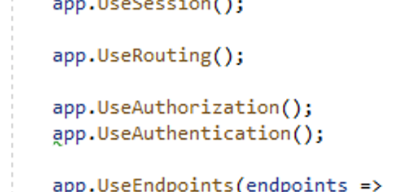
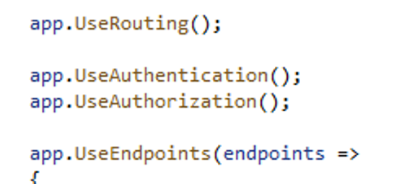
updates

diff --git a/Hands-on lab/HOL step-by-step - Modern cloud apps.md b/Hands-on lab/HOL step-by-step - Modern cloud apps.md
@@ -1234,18 +1234,19 @@ To enable profile editing on your application, you will need to create a profile
 
     ```
     using Microsoft.AspNetCore.Authentication;
+    using Microsoft.AspNetCore.Authentication.AzureADB2C.UI;
     ```
 
 3. Locate the `app.UseAuthentication();` line within the `public void Configure` method, and add the following line of code after it:
 
     ```
     app.UseAuthentication();
+    app.UseAuthorization();
     ```
 
     The result will look similar to the following:
 
     ![app.UseAuthentication code inserted](media/2020-03-18-14-44-13.png "app.UseAuthentication code inserted")
-    
 
 3. Locate the Azure AD B2C name by navigating to your resource group. Copy the name to Notepad.
 
@@ -1280,10 +1281,10 @@ Your app is now properly configured to communicate with Azure AD B2C by using AS
 3. Add the following using statement to the top of the controller:
 
     ```csharp
-    using Microsoft.AspNetCore.Mvc;
     using Microsoft.AspNetCore.Authentication;
+    using Microsoft.AspNetCore.Authentication.AzureADB2C.UI;
+    using Microsoft.AspNetCore.Mvc;
     using Microsoft.Extensions.Configuration;
-    using System.Threading.Tasks;
     ```
 
 4. Locate the default controller **Index** method.
@@ -1348,13 +1349,7 @@ Your app is now properly configured to communicate with Azure AD B2C by using AS
     }
     ```
 
-5. Add the following `using` statement to the top of the file:
-
-    ```csharp
-    using Microsoft.AspNetCore.Authentication.AzureADB2C.UI;
-    ```
-
-6. Save the file.
+5. Save the file.
 
 ### Task 8: Display user information
 
